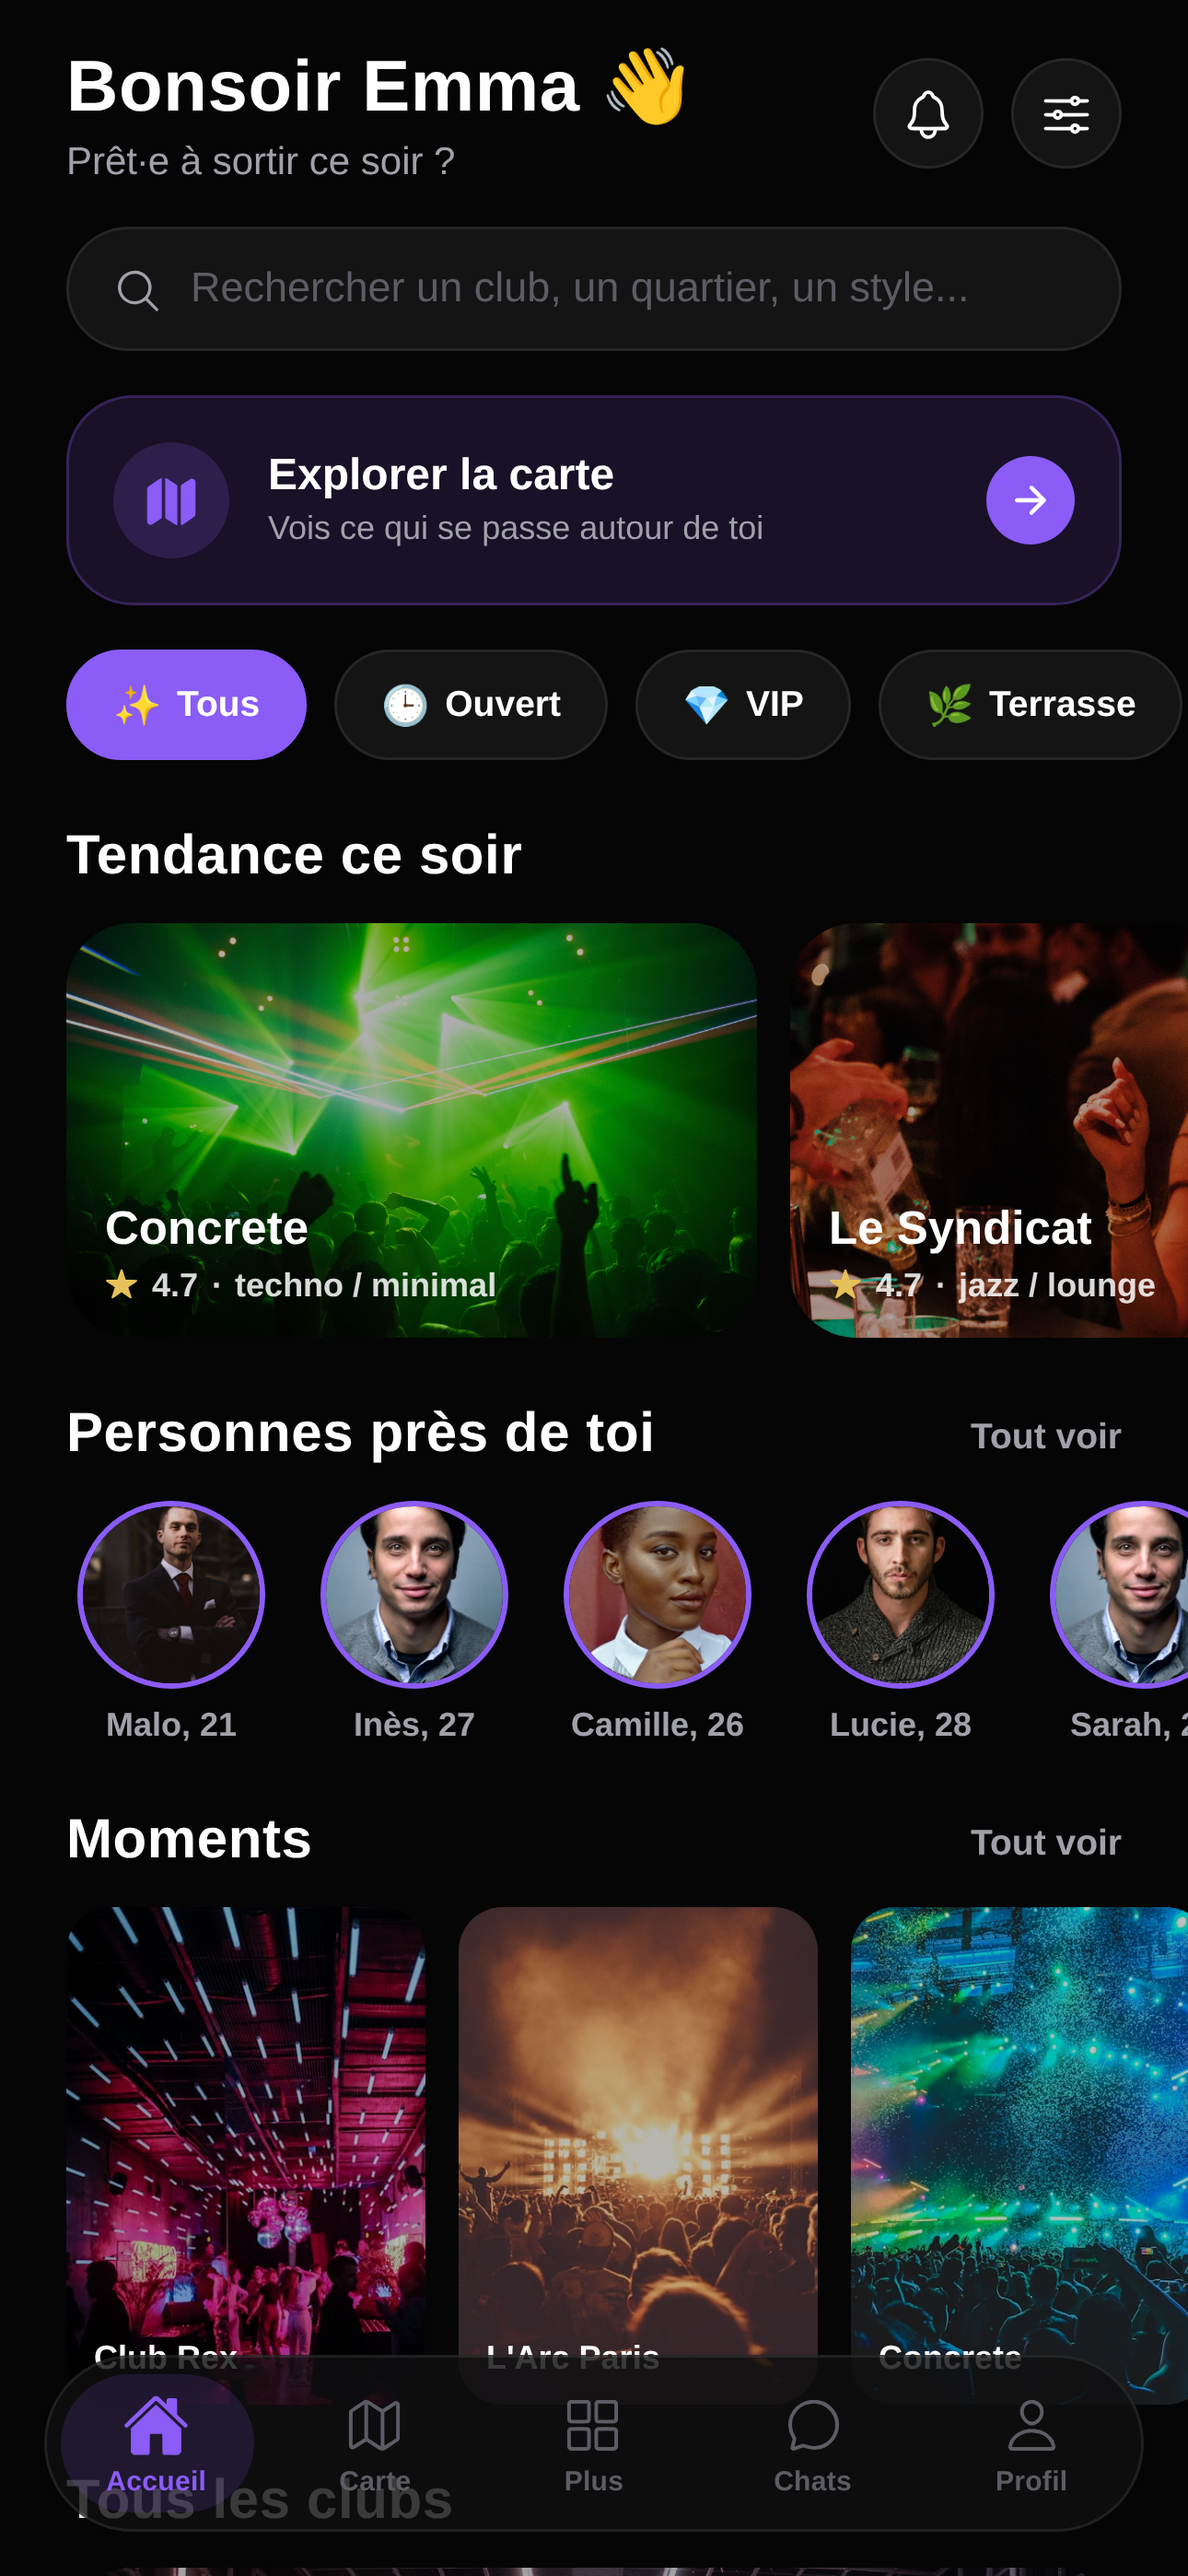
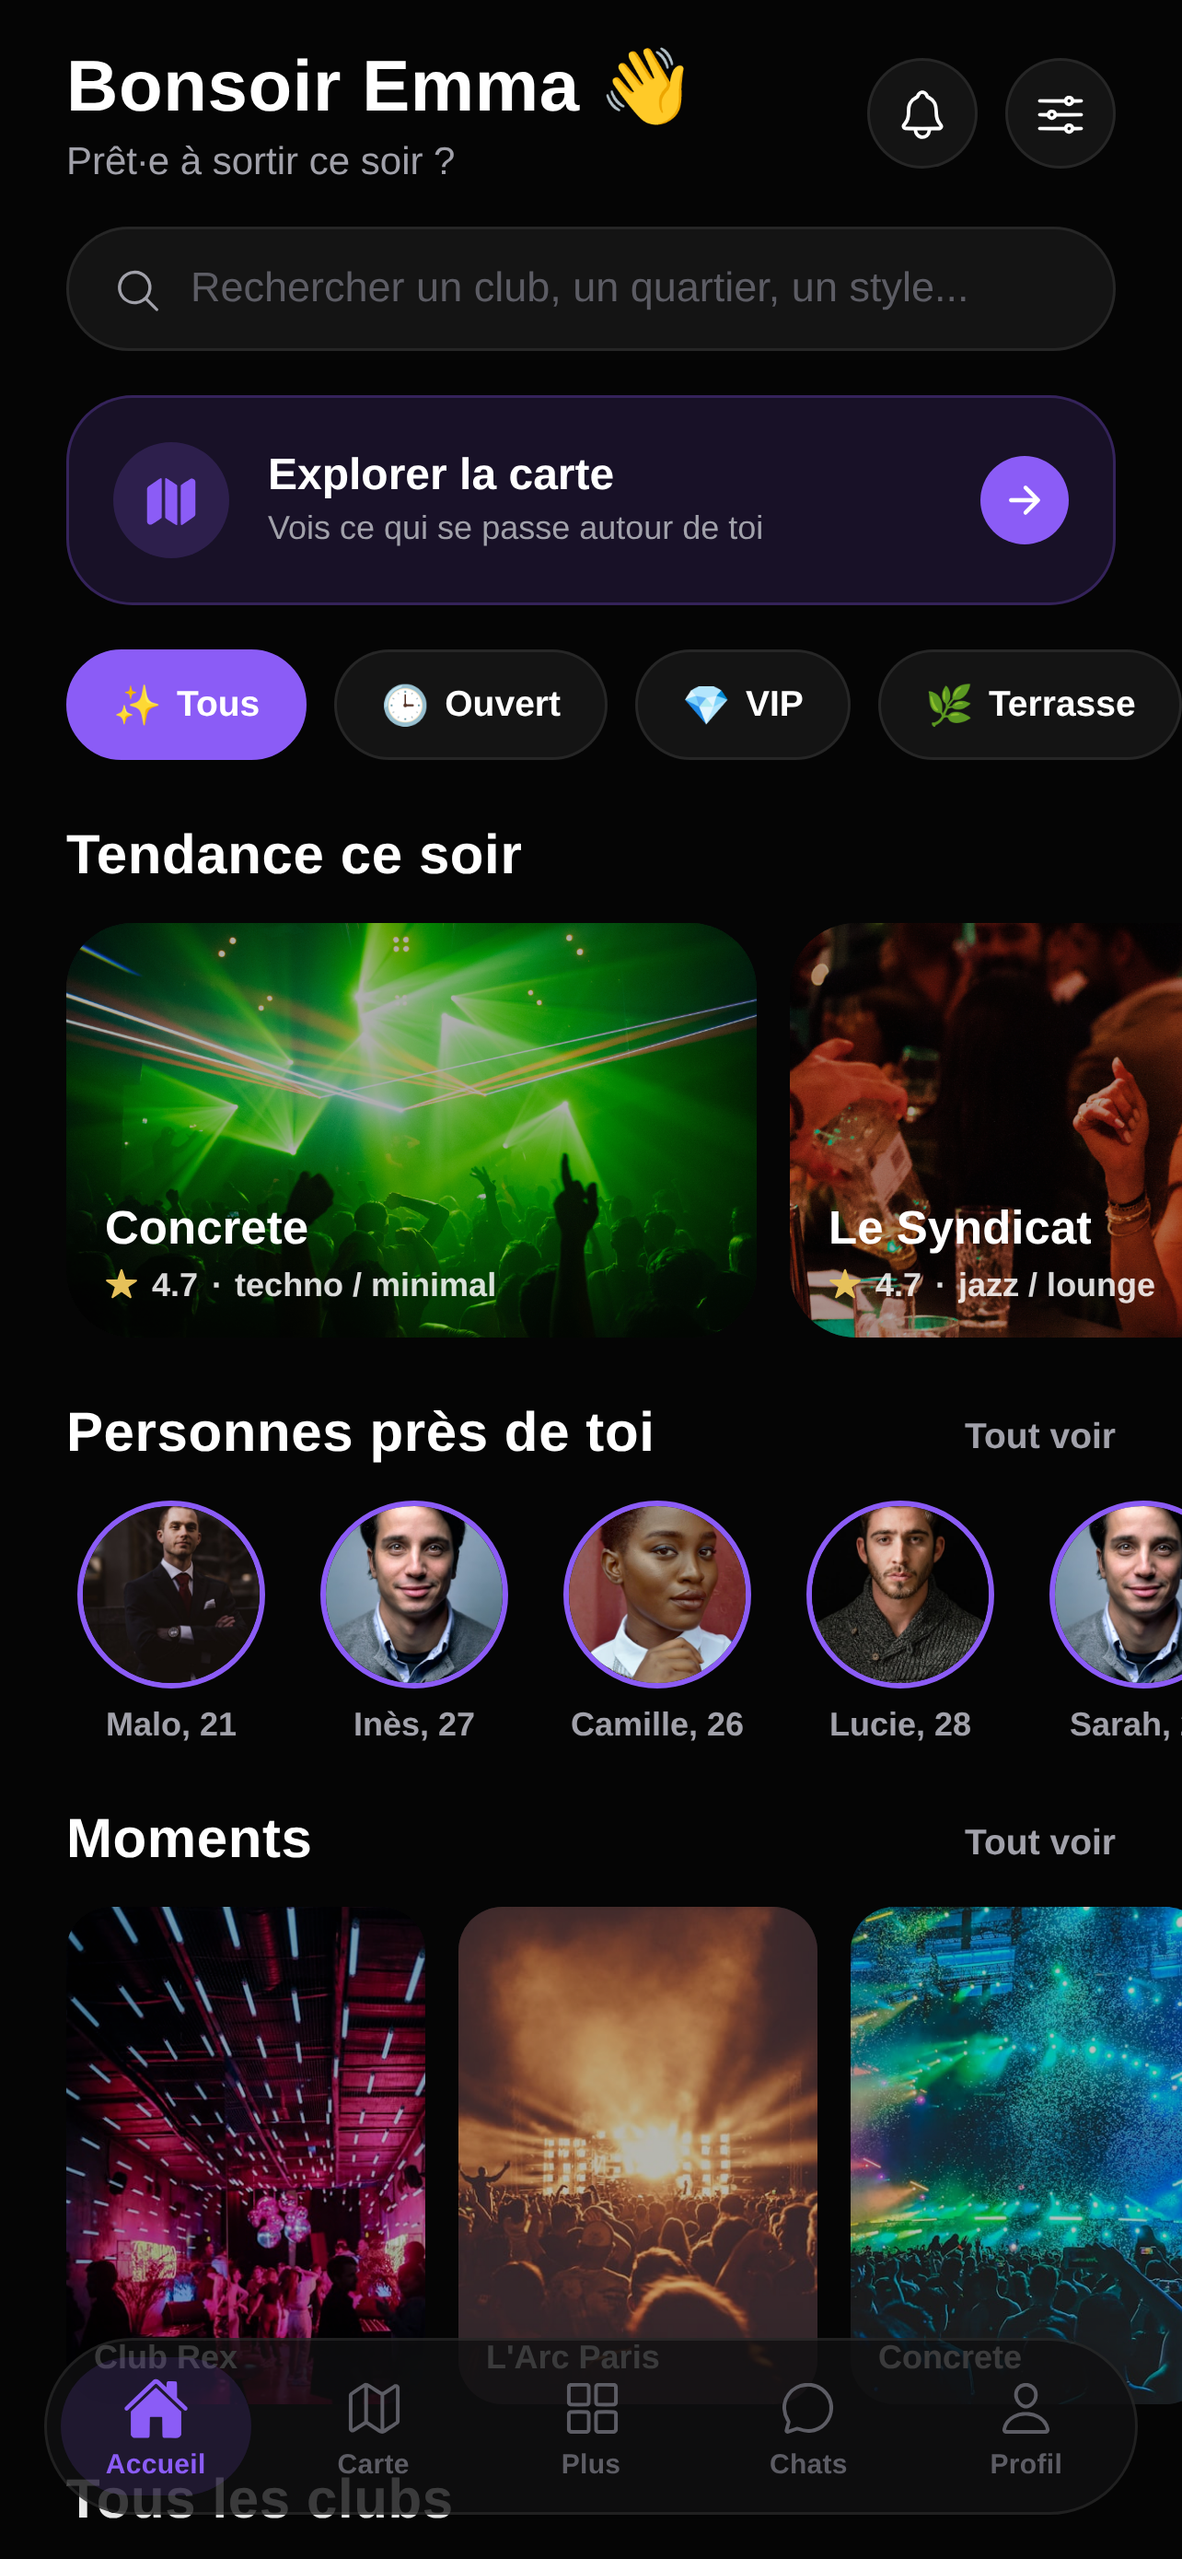
auto-commit for 7e08c5e7-dcb8-4efa-ad8d-25ffaf02aeac

diff --git a/backend/gen_appstore_screens.py b/backend/gen_appstore_screens.py
@@ -1,7 +1,7 @@
 """Génère les captures d'écran App Store (previews) aux dimensions Apple.
 
-iPhone 6,9" : 1290 × 2796 px  →  viewport 430×932 @3x
-Compatible avec les slots 6,9" et 6,7" d'App Store Connect.
+iPhone 6,5" : 1284 × 2778 px  →  viewport 428×926 @3x
+(Dimensions exigées par App Store Connect : 1242×2688 ou 1284×2778.)
 """
 import asyncio
 import os
@@ -39,7 +39,7 @@ async def main():
     async with async_playwright() as pw:
         browser = await pw.chromium.launch()
         ctx = await browser.new_context(
-            viewport={"width": 430, "height": 932},
+            viewport={"width": 428, "height": 926},
             device_scale_factor=3,
             is_mobile=True,
             has_touch=True,
@@ -47,8 +47,8 @@ async def main():
         await ctx.add_init_script("try { localStorage.setItem('nf_lang', 'fr'); } catch (e) {}")
         page = await ctx.new_page()
         # Login
-        await page.goto(f"{BASE}/login", wait_until="networkidle")
-        await page.wait_for_selector("input", timeout=30000)
+        await page.goto(f"{BASE}/login", wait_until="domcontentloaded", timeout=120000)
+        await page.wait_for_selector("input", timeout=90000)
         inputs = await page.query_selector_all("input")
         await inputs[0].fill("emma.demo@nightfinder.app")
         await inputs[1].fill("DemoOnly2026!")
